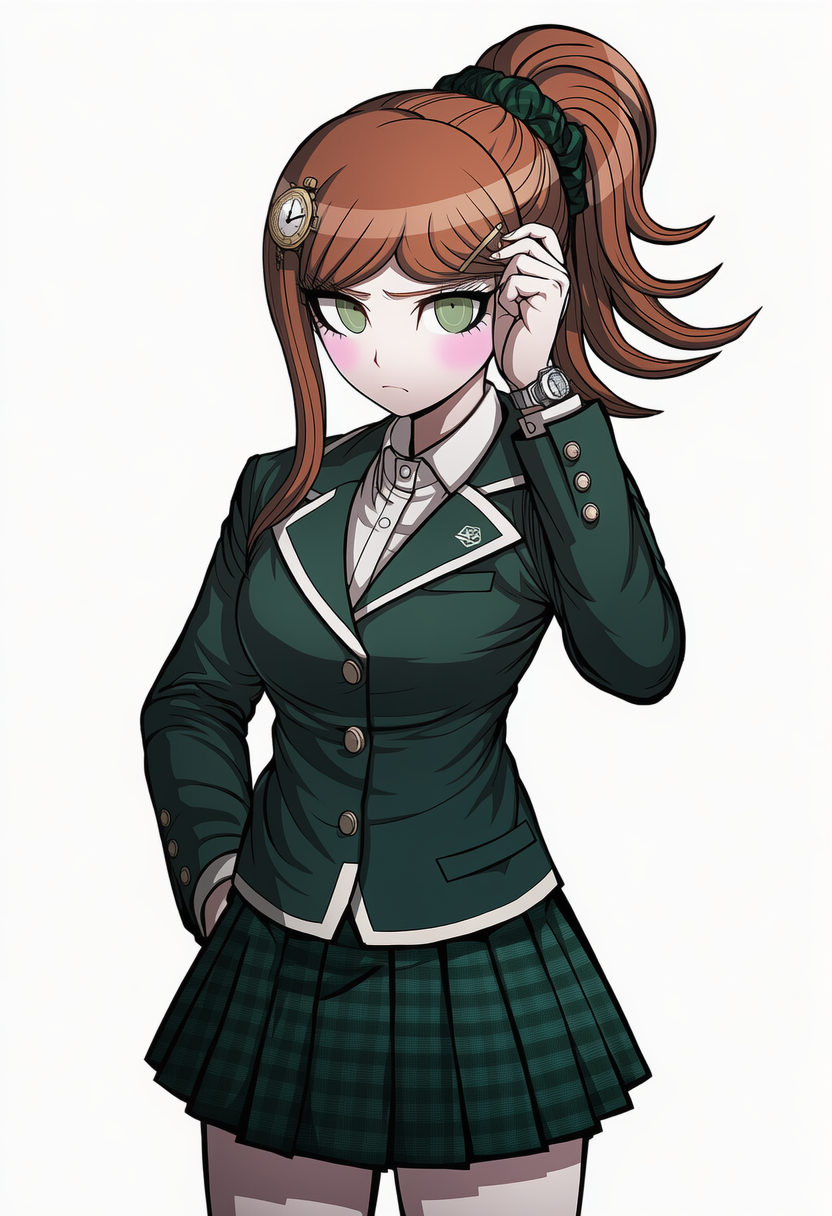
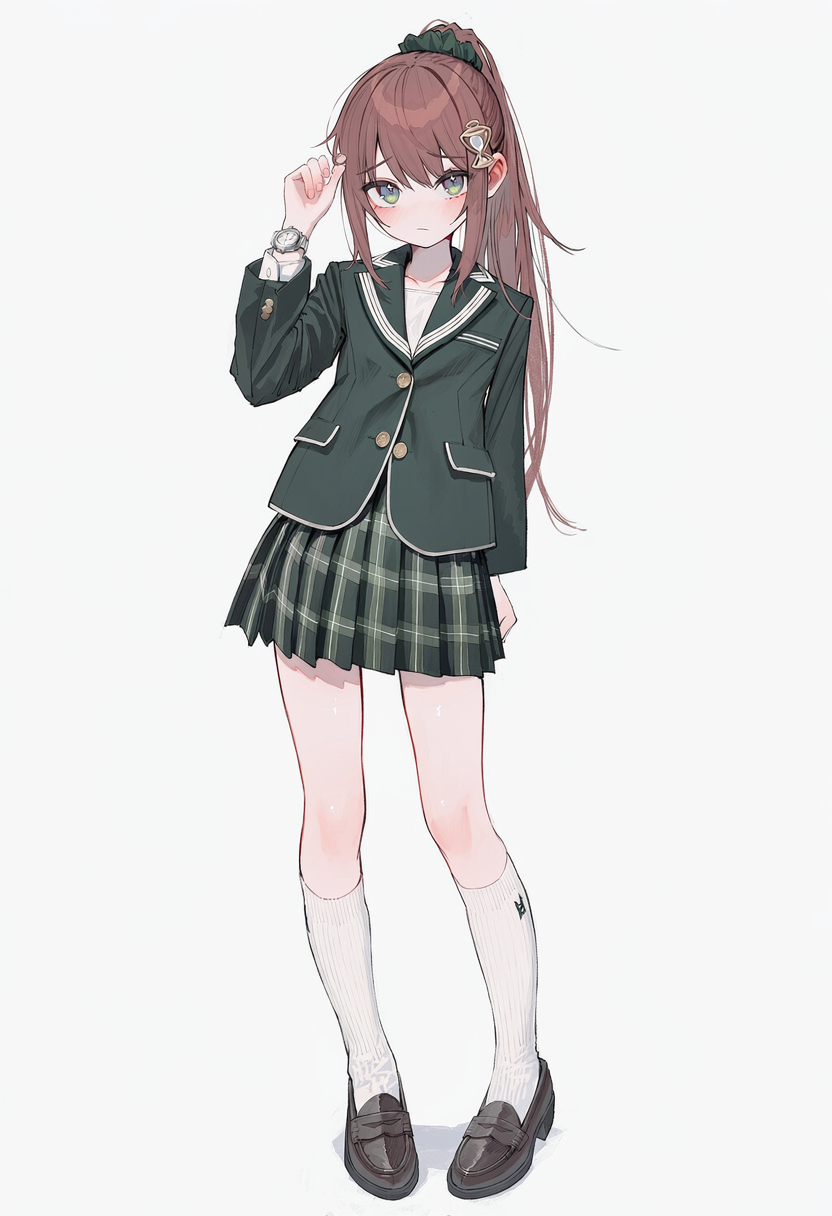
입상 v5 : NovelAI V5(nai-diffusion-5-full) + 사용자 지정 화풍으로 17장 재생성
- 기본 모델 nai-diffusion-5-full, 스타일·네거티브 프롬프트 교체
- 아카리 머리색(밤갈색)·전신 구도 보정

diff --git a/tools/generate_tpose_nai.py b/tools/generate_tpose_nai.py
@@ -28,32 +28,46 @@ import zipfile
 import requests
 
 API_URL = "https://image.novelai.net/ai/generate-image"
-MODEL = "nai-diffusion-4-5-full"
+MODEL = "nai-diffusion-5-full"
 WIDTH, HEIGHT = 832, 1216
 STEPS = 28
 SCALE = 5.0
 SAMPLER = "k_euler_ancestral"
 NOISE_SCHEDULE = "karras"
 
-# ---- 사용자가 지정한 스타일 프롬프트 (v4 : 단간론파 화풍) ----------------------
-# 원문 맨 앞의 "1girl" 은 인물 프롬프트(1girl/1boy)로 옮겼다.
+# ---- 사용자가 지정한 스타일 프롬프트 (v5) ----------------------------------
 STYLE_POSITIVE = (
-    "in style of Danganronpa, danganronpa, official art, 2::artist:komatsuzaki rui ::, "
-    "0.7::artist:Mx2j ::, 0.6::artist:ratatatat74 ::, 0.5::artist:nyong nyong ::, "
-    "0.7::artist:tokiame ::, year 2023, year 2024, year 2025, {{white background}}, "
-    "{{detailed eyes, beautiful eyes, sharp eyelash}}, "
-    "{{{depth of field, masterpiece, best quality, amazing quality, aesthetic, highres, absurdres}}}"
+    "1.35::artist:shiun (siun 5513)::, 1.75::artist:zero (miraichizu)::, "
+    "1::artist:healthyman::, 1.45::artist:samidare (hoshi)::, "
+    "1.3::artist:kimhiro::, artist:doremi, 1.5::artist:aiamu iamu::, "
+    "year 2025, year 2024, year 2023, blurry background, depth of field, "
+    "incredibly absurdres, very aesthetic, highres, masterpiece, best quality, "
+    "amazing quality, best illustration, digital art, "
+    "-3::empty eyes, artist collaboration,doll::, dynamic angle, shiny skin, "
+    "location, smooth coloring,"
 )
 
 NEGATIVE = (
-    "blurry, lowres, error, film grain, scan artifacts, worst quality, bad quality, "
-    "jpeg artifacts, very displeasing, chromatic aberration, logo, too many watermarks, "
-    "text, nsfw, villan, evil, blank eyes, empty eyes, "
+    "text, logo, watermark, too many watermarks, reference, signature, artist name, "
+    "dated, artistic error, scan artifacts, jpeg artifacts, upscaled, aliasing, "
+    "film grain, heavy film grain, dithering, chromatic aberration, digital dissolve, "
+    "halftone, screentones, artist:xinzoruo, artist:milkpanda, artist:kurukurumagical, "
+    "2::artist:bkub ::, artist collaboration, one-hour drawing challenge, toon (style), "
+    "1990s (style), 4koma, 2koma, mutation, deformed, distorted, disfigured, "
+    "1.2::bad anatomy ::, unnatural hair, bad face,  mob face, bad eyes, empty eyes, "
+    "bad proportions, bad limbs, amputee, bad arm, bad hands, bad hand structure, "
+    "extra digits, fewer digits, bad leg, extra leg, distorted composition, "
+    "bad perspective, multiple views, disorganized colors, unfinished, incomplete, "
+    "displeasing, very displeasing, unsatisfactory, inadequate, deficient, subpar, "
+    "poor, blurry, lowres, worst quality, bad quality, fewer details, bad portrait, "
+    "bad illustration, dark skin, plants, grass, leaves, hot coloring, reddish lips, "
+    "colored lips, cool tone, re:stage!, poptepipic, monochrome,"
 )
 
-POSE = "standing, full body, front view, looking at viewer, simple background"
-DROP_FROM_STYLE = []
-EXTRA_NEGATIVE = "t-pose, arms outstretched, from above, from below, foreshortening, cropped, out of frame, multiple views, "
+# 입상은 흰 배경 단독 컷이 필요하므로 구도를 흔드는 태그는 뺀다(원문 그대로는 --verbatim)
+POSE = "standing, full body, front view, looking at viewer, simple background, white background"
+DROP_FROM_STYLE = ["dynamic angle,", "blurry background,", "depth of field,", "location,"]
+EXTRA_NEGATIVE = "t-pose, arms outstretched, dynamic angle, from above, from below, foreshortening, cropped, out of frame, "
 
 MALE = "male focus, masculine body, broad shoulders, flat chest, narrow hips, long legs"
 MALE_NEG = "androgynous, feminine body, wide hips, curvy, breasts, thick thighs, 1girl, "
@@ -68,7 +82,7 @@ CHARACTERS = {
     "ken": f"1boy, solo, tall lean, {MALE}, wavy deep wine-red hair swept to one side, half-lidded sharp amber eyes, beauty mark under eye, 1.4::burgundy school blazer with gold piping worn draped over shoulders like a cape::, open-collar black shirt, loose red ribbon tie, white gloves, half theatre mask at belt, black slacks, smirk, theatrical",
     "nana": f"1girl, solo, short, slender fragile frame, 1.7::lavender hair, light purple hair::, low side ponytail over shoulder, white hair ribbon, pale violet eyes, pale skin, 1.4::white sailor school uniform with pale lavender collar and long white skirt::, cream knit cardigan, 1.5::white ribbon wrapped like bandage around left wrist::, forget-me-not hairpin, gentle shy smile",
     "riku": f"1boy, solo, short, slim boyish frame, {MALE}, curly tangerine orange hair, golden cat-like eyes, 1.2::tiny black mini top hat on head::, 1.4::black gakuran school uniform with gold buttons, short red-lined cape::, black bow tie, white gloves, black school shorts with checkered socks, mischievous grin, trickster",
-    "akari": f"1girl, solo, average height, neat slim figure, chestnut auburn high ponytail with dark green scrunchie, green eyes, 1.4::dark green school blazer with white trim, buttoned neatly::, white shirt, green plaid skirt, long sleeves buttoned at wrists, clock-shaped hairpin, 1.3::silver wristwatch::, hourglass charm, serious earnest expression",
+    "akari": f"1girl, solo, average height, neat slim figure, 1.8::auburn hair, chestnut brown hair::, high ponytail with dark green scrunchie, green eyes, 1.4::dark green school blazer with white trim, buttoned neatly::, white shirt, green plaid skirt, white knee socks, brown loafers, 1.4::full body, feet visible::, long sleeves buttoned at wrists, clock-shaped hairpin, 1.3::silver wristwatch::, hourglass charm, serious earnest expression",
     "yuu": f"1boy, solo, lanky, {MALE}, 1.2::masculine face, defined jaw::, messy bright cyan-teal hair, purple eyes, 1.3::three silver piercings on one ear::, 1.4::big headphones around neck::, 1.4::open navy gakuran school jacket over white band t-shirt::, loose navy trousers, chain wallet, red high-top sneakers, guitar pick necklace, wide friendly grin",
     "koto": f"1girl, solo, tall, calm graceful figure, long honey caramel brown hair half-up with flower ornament, gentle light brown eyes, 1.4::classic navy sailor school uniform with long navy skirt::, long beige cardigan, 1.4::red armband on left arm::, small gear-shaped pin, red thread tied on ring finger, kind warm smile, class president",
     "satsuki": f"1girl, solo, tall, toned athletic build, 1.7::dark green hair::, short low ponytail with braided cord, sharp violet eyes, 1.4::khaki military-style school blazer with brass buttons::, black skirt, black tights, laced boots, 1.4::brown leather archery arm guards::, black scarf around neck, feather charm, quiet stern expression",
@@ -112,7 +126,7 @@ MALES = {"rei", "sora", "ken", "riku", "yuu", "taiga", "sho"}
 
 
 POSES_PATH = os.path.join(os.path.dirname(os.path.abspath(__file__)), "..", "art", "poses.json")
-SPRITE_FRAME = "cowboy shot, upper body to thighs, front view, looking at viewer, simple background"
+SPRITE_FRAME = "cowboy shot, upper body to thighs, front view, looking at viewer, simple background, white background"
 
 
 def pose_tags(name: str, pose: str):
